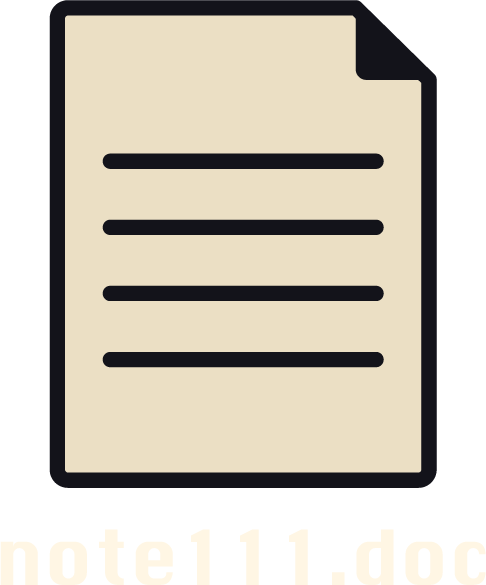
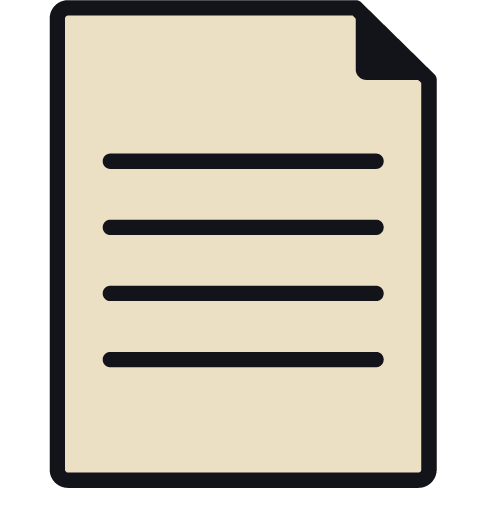
add the drop and drag animation

diff --git a/weini/js/file.js b/weini/js/file.js
@@ -1,10 +1,14 @@
 window.onload = setup
 
 function setup() {
+    //set the dafulat margin and background color
     document.documentElement.style.margin = "0";
     document.body.style.margin = "0";
     document.body.style.background = "#48484e";
 
+    let dropCount = 0;
+
+    //add div for the files image and gif
     let cell = document.createElement("div");
     cell.classList.add("bkcell");
     cell.style.overflow = "hidden";
@@ -15,6 +19,7 @@ function setup() {
     cell.style.display = "flex";
     document.body.appendChild(cell);
 
+    //add the files imag
     let img = document.createElement("img");
     img.classList.add("files_png");
     img.src = "image/files.png";
@@ -25,9 +30,22 @@ function setup() {
     img.style.top = "50%";
     img.style.left = "50%";
     img.style.transform = "translate(-50%, -50%)";
-    img.style.zIndex = "3";
+    img.style.zIndex = "0";
     cell.appendChild(img);
 
+    // set a drop zone
+    let dropZone = document.createElement("div");
+    dropZone.id = "dropZone";
+    dropZone.style.position = "absolute";
+    dropZone.style.width = "70%";
+    dropZone.style.height = "90%";
+    dropZone.style.top = "50%";
+    dropZone.style.left = "50%";
+    dropZone.style.transform = "translate(-50%, -50%)";
+    dropZone.style.zIndex = "5";
+    cell.appendChild(dropZone);
+
+    //add a location file windows
     let location = document.createElement("a");
     location.setAttribute("href", "https://www.deaddrops.com/db/?page=view&id=778");
     location.textContent = "4GB-Concordia: 1439 Ste-Catherine W, Montreal, Quebec, CA 45.49650 N 73.57640 W "
@@ -43,6 +61,7 @@ function setup() {
     location.style.textDecoration = "none";
     cell.appendChild(location);
 
+    //add a dinosaur gif
     let dinosaur = document.createElement("img");
     dinosaur.classList.add("dinosaur_png");
     dinosaur.src = "image/dinosaur.gif";
@@ -56,63 +75,213 @@ function setup() {
     dinosaur.style.zIndex = "3";
     cell.appendChild(dinosaur);
 
+    //set the parent for the file box
     let parent = document.createElement("div");
     parent.classList.add("parent");
     cell.appendChild(parent);
 
-    let fileA = document.createElement("img");
-    fileA.src = "image/file.png";
-    fileA.classList.add("box");
-    fileA.setAttribute("id", "draggable-box-a");
-    fileA.setAttribute("draggable", "true");
-    fileA.style.width = "175px";
-    fileA.style.height = "185px";
-    fileA.style.display = "block";
-    fileA.style.position = "absolute";
-    fileA.style.top = "150px";
-    fileA.style.left = "90%";
-    fileA.style.zIndex = "8";
-    parent.appendChild(fileA);
+    //set the file group with text and img
+    let fileAGroup = document.createElement("div");
+    fileAGroup.classList.add("box");
+    fileAGroup.id = "draggable-box-a";
+    fileAGroup.draggable = true;
+    fileAGroup.style.position = "absolute";
+    fileAGroup.style.top = "150px";
+    fileAGroup.style.left = "90%";
+    fileAGroup.style.zIndex = "100";
+    fileAGroup.style.display = "flex";
+    fileAGroup.style.flexDirection = "column";
+    fileAGroup.style.alignItems = "center";
+    parent.appendChild(fileAGroup);
 
-    let fileB = document.createElement("img");
-    fileB.src = "image/img.png";
-    fileB.classList.add("box");
-    fileB.setAttribute("id", "draggable-box-b");
-    fileB.setAttribute("draggable", "true");
-    fileB.style.width = "175px";
-    fileB.style.height = "185px";
-    fileB.style.display = "block";
-    fileB.style.position = "absolute";
-    fileB.style.top = "450px";
-    fileB.style.left = "90%";
-    fileB.style.zIndex = "8";
-    parent.appendChild(fileB);
+    let fileAImg = document.createElement("img");
+    fileAImg.src = "image/file.png";
+    fileAImg.style.width = "175px";
+    fileAImg.style.height = "auto";
+    fileAImg.style.display = "block";
+    fileAImg.style.pointerEvents = "none";
+    fileAGroup.appendChild(fileAImg);
 
-    let fileC = document.createElement("img");
-    fileC.src = "image/doc.png";
-    fileC.classList.add("box");
-    fileC.setAttribute("id", "draggable-box-c");
-    fileC.setAttribute("draggable", "true");
-    fileC.style.width = "175px";
-    fileC.style.height = "185px";
-    fileC.style.display = "block";
-    fileC.style.position = "absolute";
-    fileC.style.top = "750px";
-    fileC.style.left = "90%";
-    fileC.style.zIndex = "8";
-    parent.appendChild(fileC);
+    let fileAText = document.createElement("p");
+    fileAText.innerHTML = "document";
+    fileAText.style.fontFamily = "MyCustomFont";
+    fileAText.style.fontSize = "24px";
+    fileAText.style.margin = "8px 0 0 0";
+    fileAText.style.color = "#fff6e4";
+    fileAText.style.pointerEvents = "none";
+    fileAGroup.appendChild(fileAText);
 
-    //callback function
-    console.log("drag ex");
+    //set the file group B with text and img
+    let fileBGroup = document.createElement("div");
+    fileBGroup.classList.add("box");
+    fileBGroup.id = "draggable-box-b";
+    fileBGroup.draggable = true;
+    fileBGroup.style.position = "absolute";
+    fileBGroup.style.top = "450px";
+    fileBGroup.style.left = "90%";
+    fileBGroup.style.zIndex = "100";
+    fileBGroup.style.display = "flex";
+    fileBGroup.style.flexDirection = "column";
+    fileBGroup.style.alignItems = "center";
+    parent.appendChild(fileBGroup);
 
+    let fileBImg = document.createElement("img");
+    fileBImg.src = "image/img.png";
+    fileBImg.style.width = "175px";
+    fileBImg.style.height = "auto";
+    fileBImg.style.display = "block";
+    fileBImg.style.pointerEvents = "none";
+    fileBGroup.appendChild(fileBImg);
+
+    let fileBText = document.createElement("p");
+    fileBText.innerHTML = "ywlo";
+    fileBText.style.fontFamily = "MyCustomFont";
+    fileBText.style.fontSize = "24px";
+    fileBText.style.margin = "8px 0 0 0";
+    fileBText.style.color = "#fff6e4";
+    fileBText.style.pointerEvents = "none";
+    fileBGroup.appendChild(fileBText);
+
+    //set the file group C with text and img
+    let fileCGroup = document.createElement("div");
+    fileCGroup.classList.add("box");
+    fileCGroup.id = "draggable-box-c";
+    fileCGroup.draggable = true;
+    fileCGroup.style.position = "absolute";
+    fileCGroup.style.top = "750px";
+    fileCGroup.style.left = "90%";
+    fileCGroup.style.zIndex = "100";
+    fileCGroup.style.display = "flex";
+    fileCGroup.style.flexDirection = "column";
+    fileCGroup.style.alignItems = "center";
+    parent.appendChild(fileCGroup);
+
+    let fileCImg = document.createElement("img");
+    fileCImg.src = "image/doc.png";
+    fileCImg.style.width = "175px";
+    fileCImg.style.height = "auto";
+    fileCImg.style.display = "block";
+    fileCImg.style.pointerEvents = "none";
+    fileCGroup.appendChild(fileCImg);
+
+    let fileCText = document.createElement("p");
+    fileCText.innerHTML = "doc";
+    fileCText.style.fontFamily = "MyCustomFont";
+    fileCText.style.fontSize = "24px";
+    fileCText.style.margin = "8px 0 0 0";
+    fileCText.style.color = "#fff6e4";
+    fileCText.style.pointerEvents = "none";
+    fileCGroup.appendChild(fileCText);
+
+    //save the box data when you drag
     let handleDragging = function (event) {
+        //if boxes has been drop to file it can not move again
+        if (event.target.classList && event.target.classList.contains("locked")) {
+            event.preventDefault();
+            return;
+        }
         console.log("on drag")
-        //HERE :: the event target refers to the object being dragged...
         console.log(event.target.id);
+
+        event.dataTransfer.clearData();
+        event.dataTransfer.setData("objDraggedID", event.target.id);
     };
     window.addEventListener("dragstart", handleDragging);
 
+    // //
+    // let handleDraggingStop = function (event) {
+    //     console.log("on stop")
+    //     //HERE :: the event target refers to the object being dragged...
+    //     console.log(event.target.id);
+    //     // HERE - this refers to the window
+    //     console.log(this);
+    // };
+    // window.addEventListener("dragend", handleDraggingStop);
 
+    //Allow drop and check the if drag over
+    dropZone.addEventListener("dragover", function (event) {
+        event.preventDefault();
+        console.log("dragover");
+        console.log(event);
+    });
 
+    dropZone.addEventListener("drop", function (event) {
 
+        event.preventDefault();
+
+        let theObjId = event.dataTransfer.getData("objDraggedID");
+
+        let rect = dropZone.getBoundingClientRect();
+        let dropX = event.clientX - rect.left;
+        let dropY = event.clientY - rect.top;
+
+        let overlay = document.createElement("div");
+        overlay.style.position = "absolute";
+        overlay.style.inset = "0";
+        overlay.style.zIndex = "999";
+        overlay.style.pointerEvents = "auto"; // 必须能点
+        dropZone.appendChild(overlay);
+
+        // ✅ 2) 弹窗图片
+        let deletWindows = document.createElement("img");
+        deletWindows.src = "image/saveWindows.png";
+        deletWindows.style.width = "70%";
+        deletWindows.style.position = "absolute";
+        deletWindows.style.left = "50%";
+        deletWindows.style.top = "50%";
+        deletWindows.style.transform = "translate(-50%, -50%)";
+        deletWindows.style.display = "block";
+        deletWindows.style.pointerEvents = "none"; // 图片不挡点击
+        overlay.appendChild(deletWindows);
+
+        let okBtn = document.createElement("button");
+        okBtn.textContent = "OK";
+        okBtn.type = "button";
+        okBtn.style.fontFamily = "MyCustomFont";
+        okBtn.style.fontSize = "50px";
+        okBtn.style.position = "absolute";
+        okBtn.style.left = "50%";
+        okBtn.style.top = "60%";
+        okBtn.style.transform = "translate(-50%, -50%)";
+        okBtn.style.background = "#fff6e4";
+        okBtn.style.border = "5px solid black";
+        okBtn.style.padding = "30px 80px";
+        okBtn.style.cursor = "pointer";
+        okBtn.style.zIndex = "1000"; // 保证在图片上面
+        overlay.appendChild(okBtn);
+
+        okBtn.addEventListener("click", function () {
+            // 关弹窗（图片+按钮一起消失）
+            overlay.remove();
+
+            // ✅ 现在才真正把文件放进去
+            let draggedEl = document.getElementById(theObjId);
+            draggedEl.style.position = "absolute";
+            draggedEl.classList.add("locked");
+            draggedEl.draggable = false;
+            draggedEl.removeAttribute("draggable");
+            draggedEl.style.cursor = "default";
+
+            let w = draggedEl.offsetWidth;
+            let h = draggedEl.offsetHeight;
+
+            draggedEl.style.left = (dropX - w / 2) + "px";
+            draggedEl.style.top = (dropY - h / 2) + "px";
+
+            dropZone.appendChild(draggedEl);
+            draggedEl.classList.add("inFolder");
+
+            // ✅ 改名逻辑
+            if (dropCount < 3) {
+                let textEl = draggedEl.querySelector("p");
+                if (textEl) {
+                    textEl.innerHTML = "unknown_<br>sender_" + (30 + dropCount);
+                    textEl.style.color = "black";
+                }
+                dropCount++;
+            }
+
+        })
+
+    });
 }

diff --git a/weini/css/files.css b/weini/css/files.css
@@ -4,3 +4,18 @@
     font-weight: normal;
     font-style: normal;
 }
+
+#draggable-box-a:hover {
+    filter: blur(2px);
+    filter: drop-shadow(8px 8px 10px gray);
+}
+
+#draggable-box-b:hover {
+    filter: blur(2px);
+    filter: drop-shadow(8px 8px 10px gray);
+}
+
+#draggable-box-c:hover {
+    filter: blur(2px);
+    filter: drop-shadow(8px 8px 10px gray);
+}
